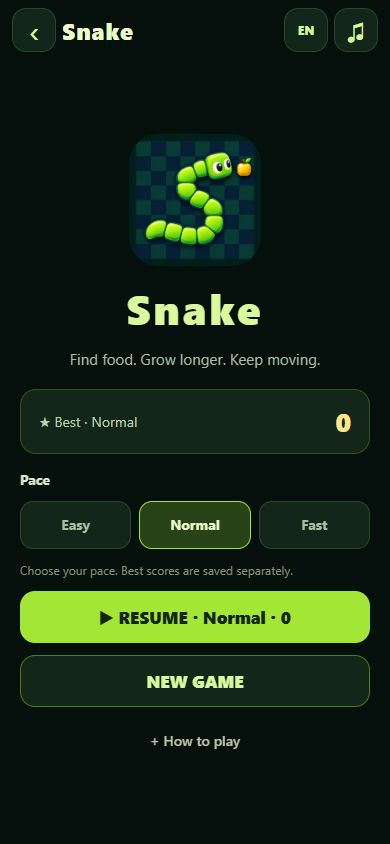
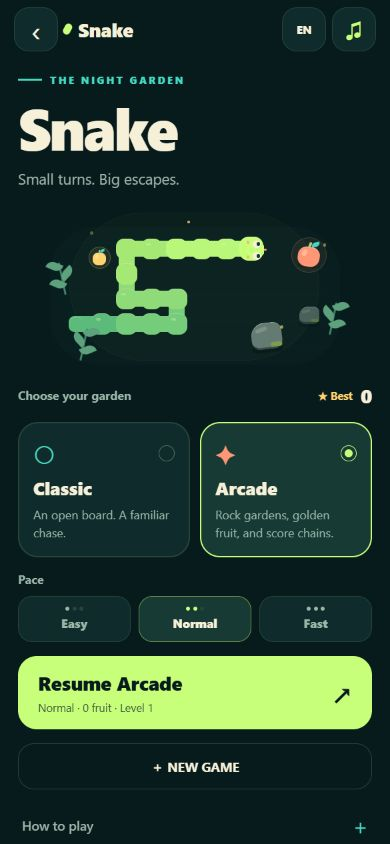
docs(snake): explain Arcade rules and refresh the game preview

diff --git a/src/app/games/snake.tsx b/src/app/games/snake.tsx
@@ -4,7 +4,7 @@ import SnakeScreen from '@/games/snake/SnakeScreen';
 import { SnakeDataProvider } from '@/games/snake/data/SnakeDataProvider';
 
 export function generateMetadata(): Metadata {
-  return { title: 'Snake | Galaxy Balls', description: 'Eat, grow, and beat your best score in classic Snake.' };
+  return { title: 'Snake | Galaxy Balls', description: 'Classic and Arcade Snake in a night garden, with fruit chains and golden bonuses.' };
 }
 
 export default function SnakeRoute() {

diff --git a/README.md b/README.md
@@ -24,8 +24,9 @@ Match colors, trigger cascades, and keep the board from filling up.
 
 Hold **◀ ▼ ▶** to move. Tap **↻** to rotate; **⇓** drops instantly in Quick Play.
 
-**Snake** — open **Other Games**, eat the gold food, and avoid walls and your tail.
-Choose Easy, Normal, or Fast; steer with the right-side arrows, swipes, or keyboard.
+**Snake** — explore the night garden in Classic or Arcade. Collect fruit, build
+score chains, and catch golden bonuses while avoiding rocks and your trail.
+Choose Easy, Normal, or Fast; steer with arrows, swipes, or keyboard.
 [Controls & saves →](docs/snake.md)
 
 - **Languages:** English · አማርኛ · Afaan Oromoo
@@ -40,7 +41,7 @@ Click a screenshot to open it full size.
 <p align="center">
   <a href="docs/images/home.jpg"><img src="docs/images/home.jpg" width="220" alt="Home menu with language selection and Resume Game" /></a>
   <a href="docs/images/gameplay.jpg"><img src="docs/images/gameplay.jpg" width="220" alt="Galaxy Balls board, next-piece preview, cascade feedback, and movement controls" /></a>
-  <a href="docs/images/snake.jpg"><img src="docs/images/snake.jpg" width="220" alt="Snake menu with three speeds and a saved run" /></a>
+  <a href="docs/images/snake.jpg"><img src="docs/images/snake.jpg" width="220" alt="Snake night-garden menu with Classic and Arcade modes, pace selection, and a saved run" /></a>
 </p>
 
 ## Run locally
@@ -56,7 +57,7 @@ For mobile development, run `npm start`.
 <summary><strong>What gets saved?</strong></summary>
 
 Each game keeps its own unfinished run and scores on this device. Galaxy Balls
-keeps a top-five table; Snake keeps a best score for each speed. Language and
+keeps a top-five table; Snake keeps a best score for each garden and speed. Language and
 audio settings are shared. Reopen a game and choose **Resume** to continue.
 
 Starting another run asks before replacing a saved game. Clearing app or browser

diff --git a/docs/snake.md b/docs/snake.md
@@ -1,7 +1,17 @@
 # Snake
 
-Open **Other Games → Snake**. Eat the gold food for 10 points and one extra
-segment. Hitting a wall or your body ends the run; filling the board wins.
+Open **Other Games → Snake** and choose your garden.
+
+| Garden | What to expect |
+| --- | --- |
+| **Classic** | An open board, 10 points per fruit, and familiar Snake rules. |
+| **Arcade** | Rock hazards, quick-pickup chains up to 3× points, and timed golden fruit. |
+
+Coral fruit grows the snake. In Arcade, every five fruits reveals a golden fruit
+worth **50 points** without extra growth. Catch it before its bar runs out.
+The chain and golden-fruit timers freeze while paused.
+
+Walls, your body, and Arcade rocks end the run. Fill every available cell to win.
 
 | Control | Action |
 | --- | --- |
@@ -14,9 +24,10 @@ segment. Hitting a wall or your body ends the run; filling the board wins.
 Easy, Normal, and Fast start at different speeds. Every five foods speeds up the
 snake. A countdown gives you time to prepare when starting or resuming.
 
-Your run and best score for each speed save automatically. Leaving the screen,
+Your run and best score for each garden and speed save automatically. Leaving the screen,
 switching apps, or hiding the browser pauses play. After reopening, choose
 **Resume**. Starting a new run asks before replacing an unfinished one.
+Existing Classic runs and scores remain available after the update.
 
 Language, sound, and vibration follow the shared settings. Saves use the separate
 `@snake/game-data` key and do not replace Galaxy Balls progress.

diff --git a/assets/games/snake/README.md b/assets/games/snake/README.md
@@ -1,9 +1,13 @@
 # Snake assets
 
-`icon.png` is the game-library and menu artwork. Its brief: a lime-green snake
+`icon.png` is the game-library artwork. Its brief: a lime-green snake
 formed from rounded square segments in an S curve, ivory eyes, and a gold apple
 on a dark forest checkerboard. Keep the face and food readable at small sizes;
 use no text or baked-in rounded corners.
 
-The five original PCM effects in `sounds/` are rebuilt with
-`npm run sounds:snake`: start, turn, eat, lose, and win.
+The menu and game board use shared native shapes for the connected snake,
+fruit, rocks, and garden plants. Optional pickup motion follows the device's
+reduced-motion preference.
+
+The seven original PCM effects in `sounds/` are rebuilt with
+`npm run sounds:snake`: start, turn, eat, bonus, level, lose, and win.

diff --git a/docs/architecture.md b/docs/architecture.md
@@ -79,8 +79,10 @@ the compatibility boundary for that existing document. Never create a second
 writer for the same key.
 
 Snake uses `@snake/game-data` with its own version-1 parser and provider, mounted
-by `src/app/games/snake.tsx`. It stores the selected speed, a best score for each
-speed, and a paused checkpoint. It never writes the Galaxy Balls document.
+by `src/app/games/snake.tsx`. It stores the selected garden and speed, separate
+Classic and Arcade score tables, and a paused checkpoint including chain and
+golden-fruit timers. Older Classic saves migrate in memory without a startup
+write. It never writes the Galaxy Balls document.
 
 New games should use their own namespaced keys and game-specific parsers and
 contexts. They should consume the shared preference context rather than copy
